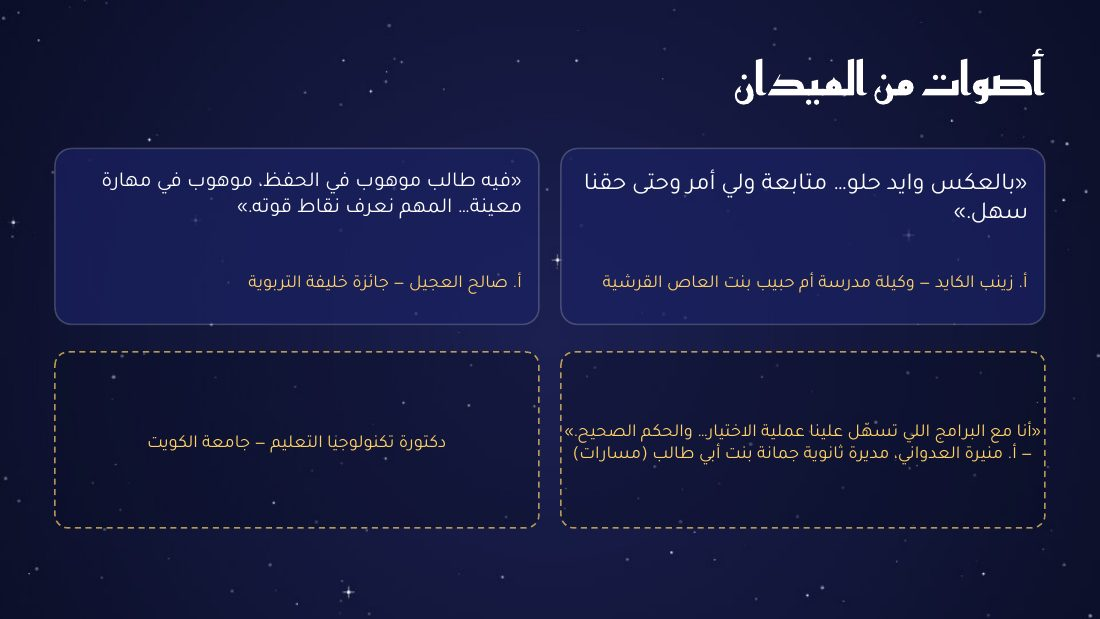
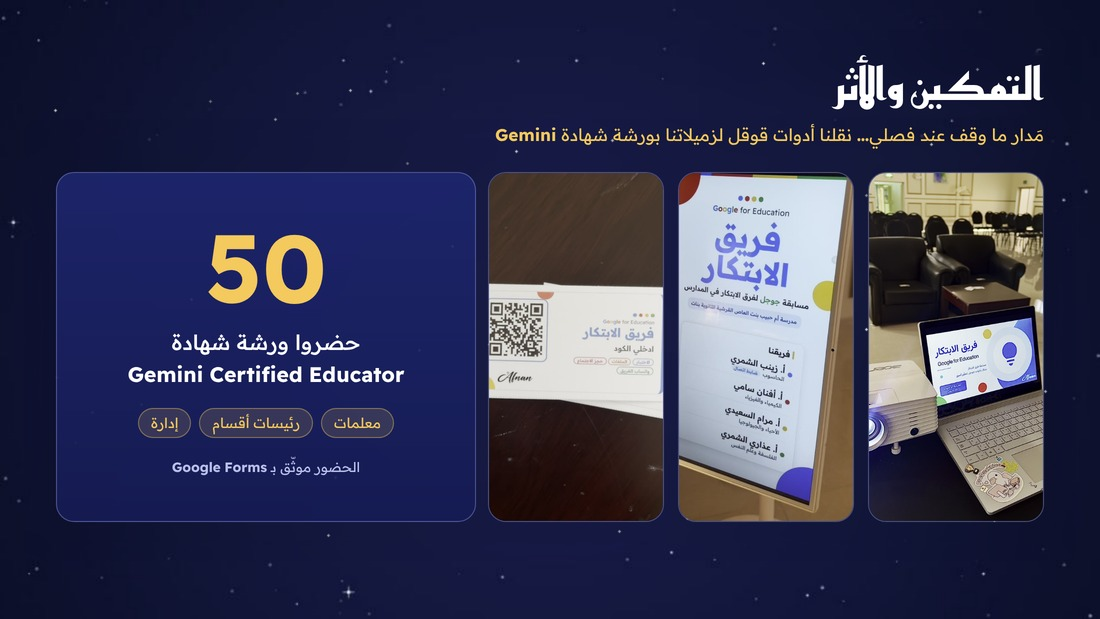
Magazine: add workshop page (50 attendees) and Dr. Al-Failakawi quote; 27 pages
Claude-Session: https://claude.ai/code/session_017v5M1oDLVPcpox3J4BECzY

diff --git a/madar/index.html b/madar/index.html
@@ -2468,7 +2468,7 @@ function lvlOf(r){return r>=0.9?['good','ممتازة 🌟']:r>=0.8?['acc','زي
 function subjRows(sid){const {res}=studentSummary(sid), t=(stu(sid)||{}).term||{}; return Object.keys(res).map(k=>({k,r:t[k]!=null?t[k]/100:res[k].c.r,v:res[k].c.v,max:res[k].c.max,d:res[k].d}));}
 
 /* ---- ١) المجلة (العرض التقديمي) ---- */
-const DECK_N=26, ABASE=/github\.io$|localhost/.test(location.hostname)?'':'https://engafnansa93.github.io/hayy/madar/';
+const DECK_N=27, ABASE=/github\.io$|localhost/.test(location.hostname)?'':'https://engafnansa93.github.io/hayy/madar/';
 function loadFlip(cb){if(window.St) return cb(); const s=document.createElement('script'); s.src=ABASE+'pageflip.js?v=1'; s.onload=cb; s.onerror=()=>toast('ما قدرت أحمّل المجلة'); document.head.appendChild(s);}
 function openMag(){
   let o=$('#magx'); if(!o){o=document.createElement('div'); o.id='magx'; document.body.appendChild(o);}
@@ -2481,7 +2481,7 @@ function openMag(){
     const h=document.createElement('div'); h.className='mx-book'; h.dir='ltr'; stage.appendChild(h);
     const back=document.createElement('div'); back.className='page mx-back'; back.dataset.density='hard'; back.innerHTML='<div>مَدار<br><small>لكل بنت مدارها 🤍</small></div>'; h.appendChild(back);
     const PAD=DECK_N%2===0?1:0; if(PAD){const p=document.createElement('div'); p.className='page mx-back'; p.innerHTML='<div><small>By Afnan</small></div>'; h.appendChild(p);}
-    for(let i=DECK_N;i>=1;i--){const p=document.createElement('div'); p.className='page'; if(i===1) p.dataset.density='hard'; p.innerHTML='<img src="'+ABASE+'deck/s-'+String(i).padStart(2,'0')+'.jpg?v=1" alt="سلايد '+i+'" decoding="async">'; h.appendChild(p);}
+    for(let i=DECK_N;i>=1;i--){const p=document.createElement('div'); p.className='page'; if(i===1) p.dataset.density='hard'; p.innerHTML='<img src="'+ABASE+'deck/s-'+String(i).padStart(2,'0')+'.jpg?v=2" alt="سلايد '+i+'" decoding="async">'; h.appendChild(p);}
     const book=new St.PageFlip(h,{width:pw,height:ph,size:'fixed',showCover:true,usePortrait:single,maxShadowOpacity:.5,mobileScrollSupport:false,flippingTime:900});
     book.loadFromHTML(h.querySelectorAll('.page')); book.turnToPage(DECK_N+PAD);
     const slideOf=k=>k<=PAD?0:DECK_N+1+PAD-k;
